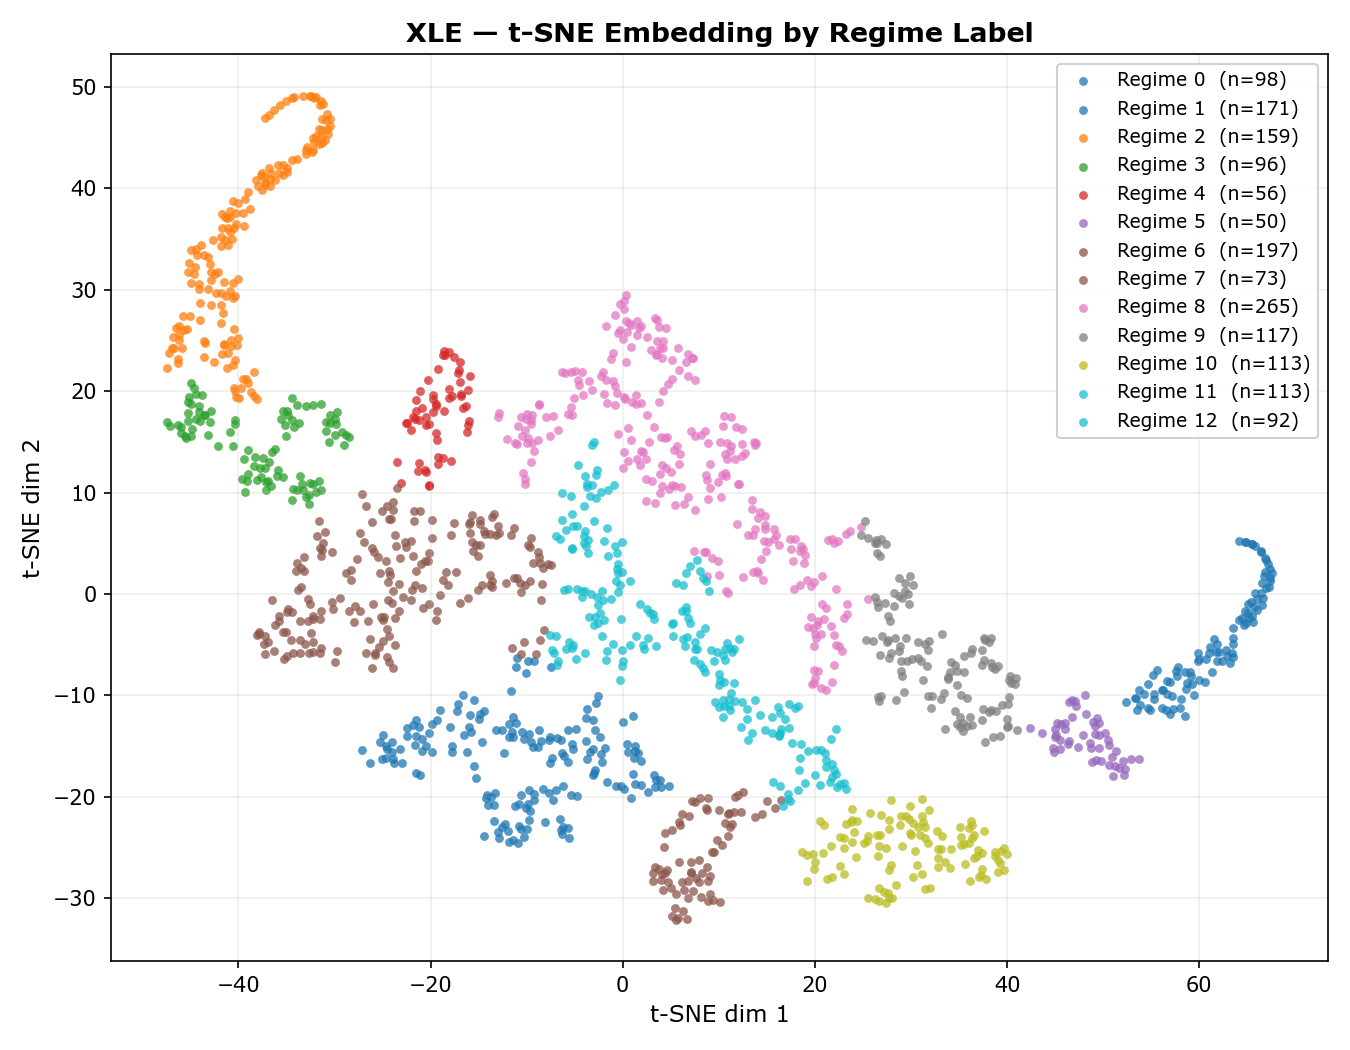
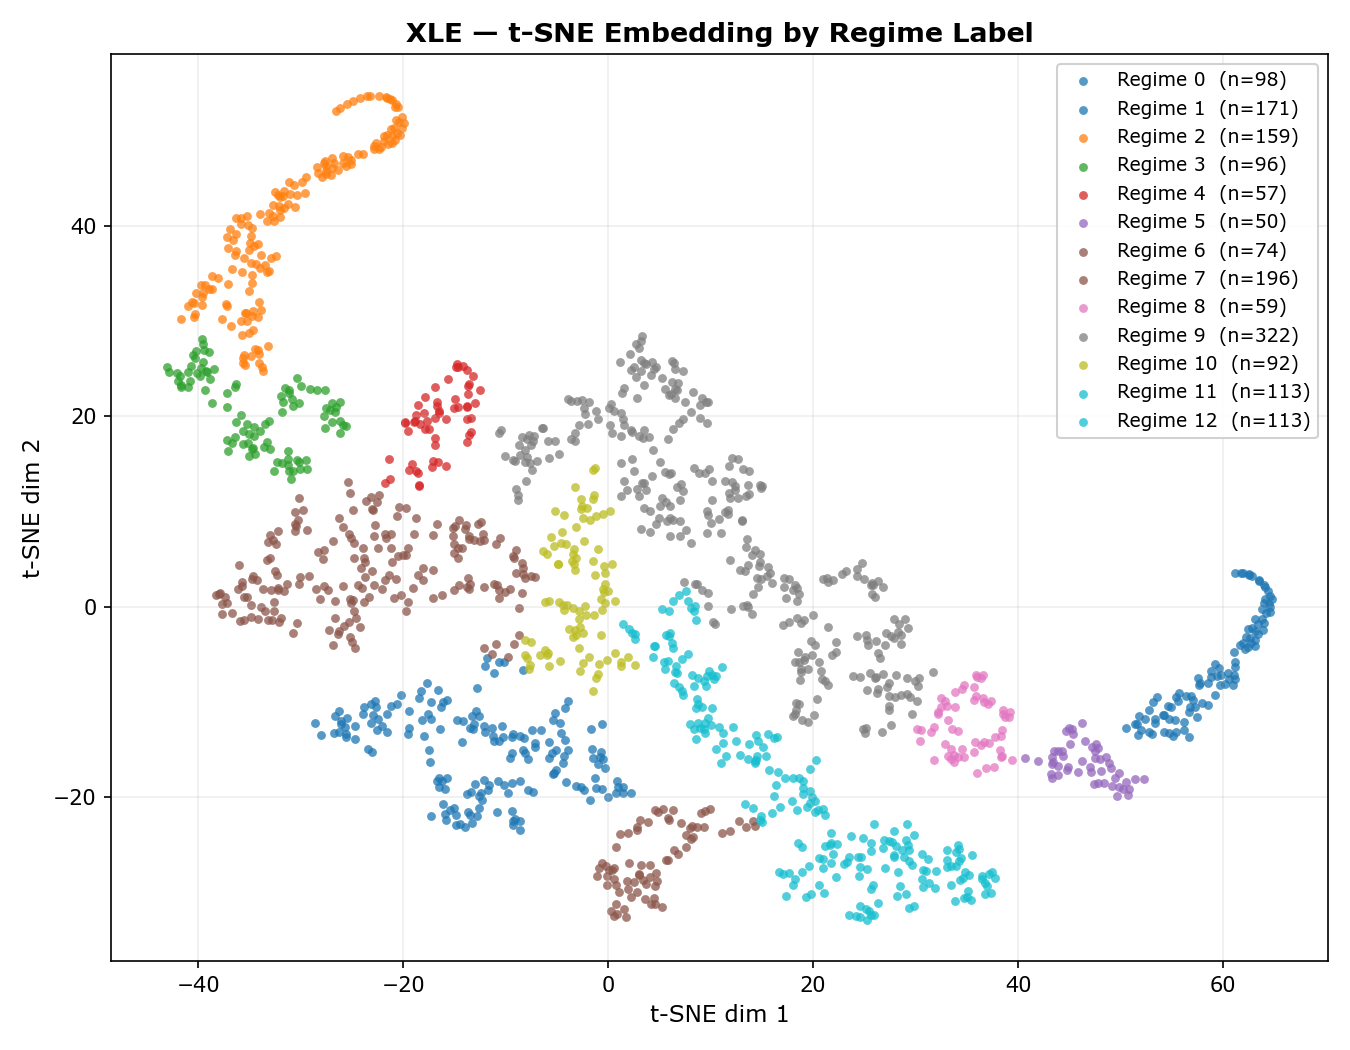
Regime analysis sweep: optimal config perplexity=30 n_clusters=5
Sweep across perplexity=[15,30,50] x n_clusters=[3,4,5] maximising
between-regime Sharpe variance on XLE. Winner: perplexity=30, n_clusters=5
(sharpe_var=2.79 vs next-best 1.35 at perp=50/nc=5).

- src/regime.py: update default n_clusters=5 (was 4)
- Retrained all regime models with optimal params:
  XLE 13 regimes — best R5=3.73, R10=3.43; worst R1=-1.63, R0=-0.98
  XLB 2 regimes; XOP 9 regimes
- results/regime_analysis.csv: full 9-config sweep table
- results/regime_embedding.png, regime_returns.png: regenerated

diff --git a/run_experiments.py b/run_experiments.py
@@ -318,7 +318,7 @@ def run_regime_analysis():
     feat_matrix = build_feature_matrix(returns_arr)
     valid = np.isfinite(feat_matrix).all(axis=1)
     feat_clean  = feat_matrix[valid]
-    full_clean  = full.iloc[np.where(valid)[0]].reset_index(drop=True)
+    full_clean  = full.iloc[np.where(valid)[0]]   # keep DatetimeIndex for WTI mask
 
     # Fit a baseline DirectionModel for predictions
     base = DirectionModel(n_estimators=600, max_depth=2, min_samples_leaf=22,

diff --git a/src/regime.py b/src/regime.py
@@ -55,7 +55,7 @@ def _reassign_noise(labels: np.ndarray, embedding: np.ndarray) -> np.ndarray:
 def fit_regimes(
     feature_matrix: np.ndarray,
     perplexity: int = 30,
-    n_clusters: int = 4,
+    n_clusters: int = 5,
 ) -> RegimeModel:
     """
     Discover market regimes.
